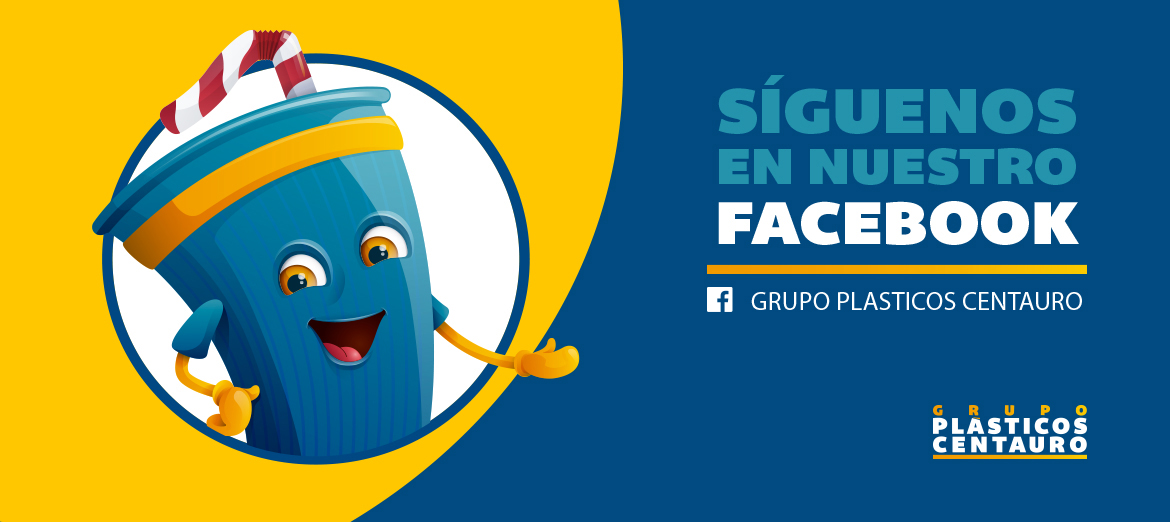
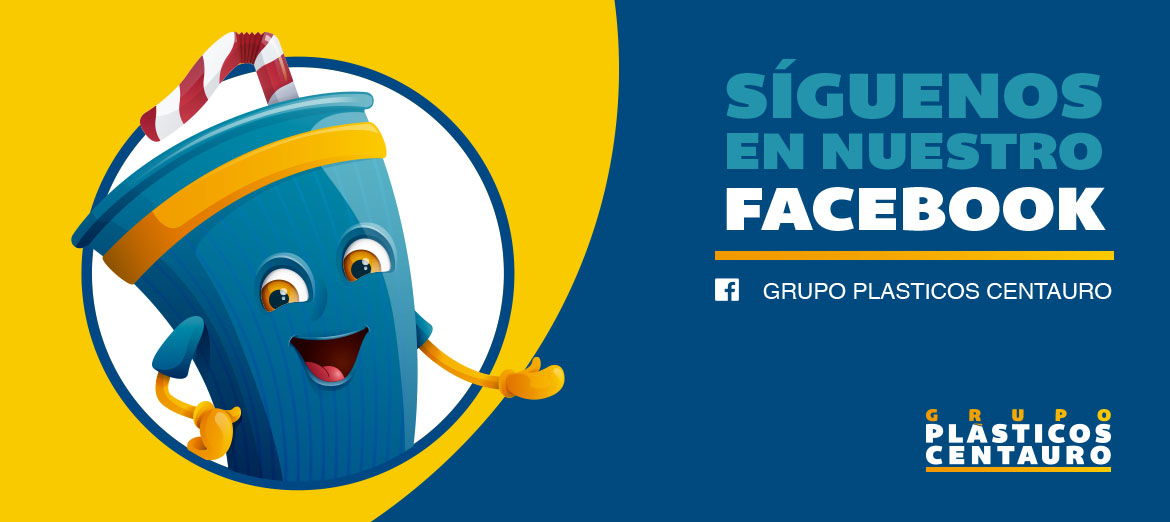
Change of images from slider

diff --git a/Pagina/Plasticos Centauro/index.html b/Pagina/Plasticos Centauro/index.html
@@ -64,7 +64,7 @@
                <div class="carousel-inner" role="listbox">
                   <div class="item active">
                   <a href="https://www.facebook.com/grupoplasticoscentauro/?fref=ts">
-                     <img src="img/slider-plasticos-centauro2.jpg" alt="Slider del Facebook de Plásticos Centauro">
+                     <img src="img/slider-plasticos-centauro.jpg" alt="Slider del Facebook de Plásticos Centauro">
                      <div class="carousel-caption"></div>
                      </a>
                   </div>
